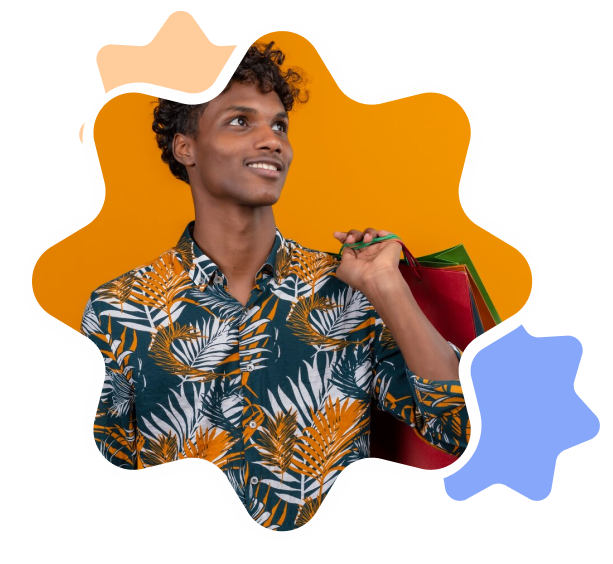
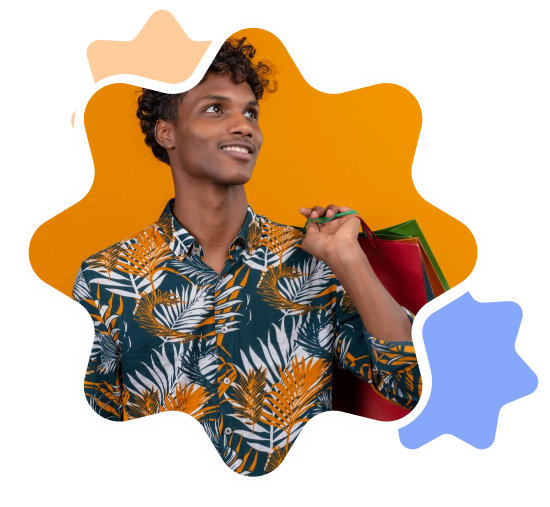
image-change

diff --git a/src/pages/SignPage/Sign.css b/src/pages/SignPage/Sign.css
@@ -1,6 +1,6 @@
 .slider-for-description {
   background-color: #e0efff;
-  height: 158vh;
+  
   display: flex;
   justify-content: center;
   align-items: center;
@@ -8,7 +8,7 @@
 }
 .slider-for-description2 {
   background-color: #e2f5e9;
-  height: 158vh;
+  
   display: flex;
   justify-content: center;
   align-items: center;
@@ -16,7 +16,7 @@
 }
 .slider-for-description3 {
   background-color: #ebdffd;
-  height: 158vh;
+  
   display: flex;
   justify-content: center;
   align-items: center;
@@ -24,7 +24,7 @@
 }
 .slider-for-description4 {
   background-color: #ffe2c7;
-  height: 158vh;
+  
   display: flex;
   justify-content: center;
   align-items: center;
@@ -34,7 +34,7 @@
   width: 100%;
 }
 .image-size3 {
-  width: 105% !important;
+  width: 100% !important;
 }
 
 @media screen and (max-width: 1280px) {
@@ -54,15 +54,7 @@
   text-align: center;
   height: 120px;
 }
-.write-up-under-image2 {
-  font-family: 'Lexend';
-  font-style: normal;
-  font-weight: 500;
-  font-size: 32px;
-  color: #222222;
-  text-align: center;
-  /* height: 120px; */
-}
+
 .store {
   color: #007aff;
 }
@@ -121,7 +113,8 @@
   padding-top: 100px;
   padding-bottom: 20px;
   padding-right: 23px;
-  
+  height: 120%;
+  overflow-y: scroll;
   transition: transform 0.3s ease-in-out;
 }
 .inputs-holder2 {

diff --git a/src/Components/LeftSlider.jsx b/src/Components/LeftSlider.jsx
@@ -28,17 +28,17 @@ const LeftSlider = () => {
         </div>
         <div className="slider-for-description3">
           <div>
-            <img src={l3} alt="" className="image-size3" />
+            <img src={l3} alt="" className="image-size" />
           </div>
-          <div className="write-up-under-image2">
+          <div className="write-up-under-image">
             Bring your <span className="store3">“Store”</span> to life
           </div>
         </div>
         <div className="slider-for-description4">
           <div>
-            <img src={l4} alt="" className="image-size3" />
+            <img src={l4} alt="" className="image-size" />
           </div>
-          <div className="write-up-under-image2">
+          <div className="write-up-under-image">
             Bring your <span className="store4">“Store”</span> to life
           </div>
         </div>
